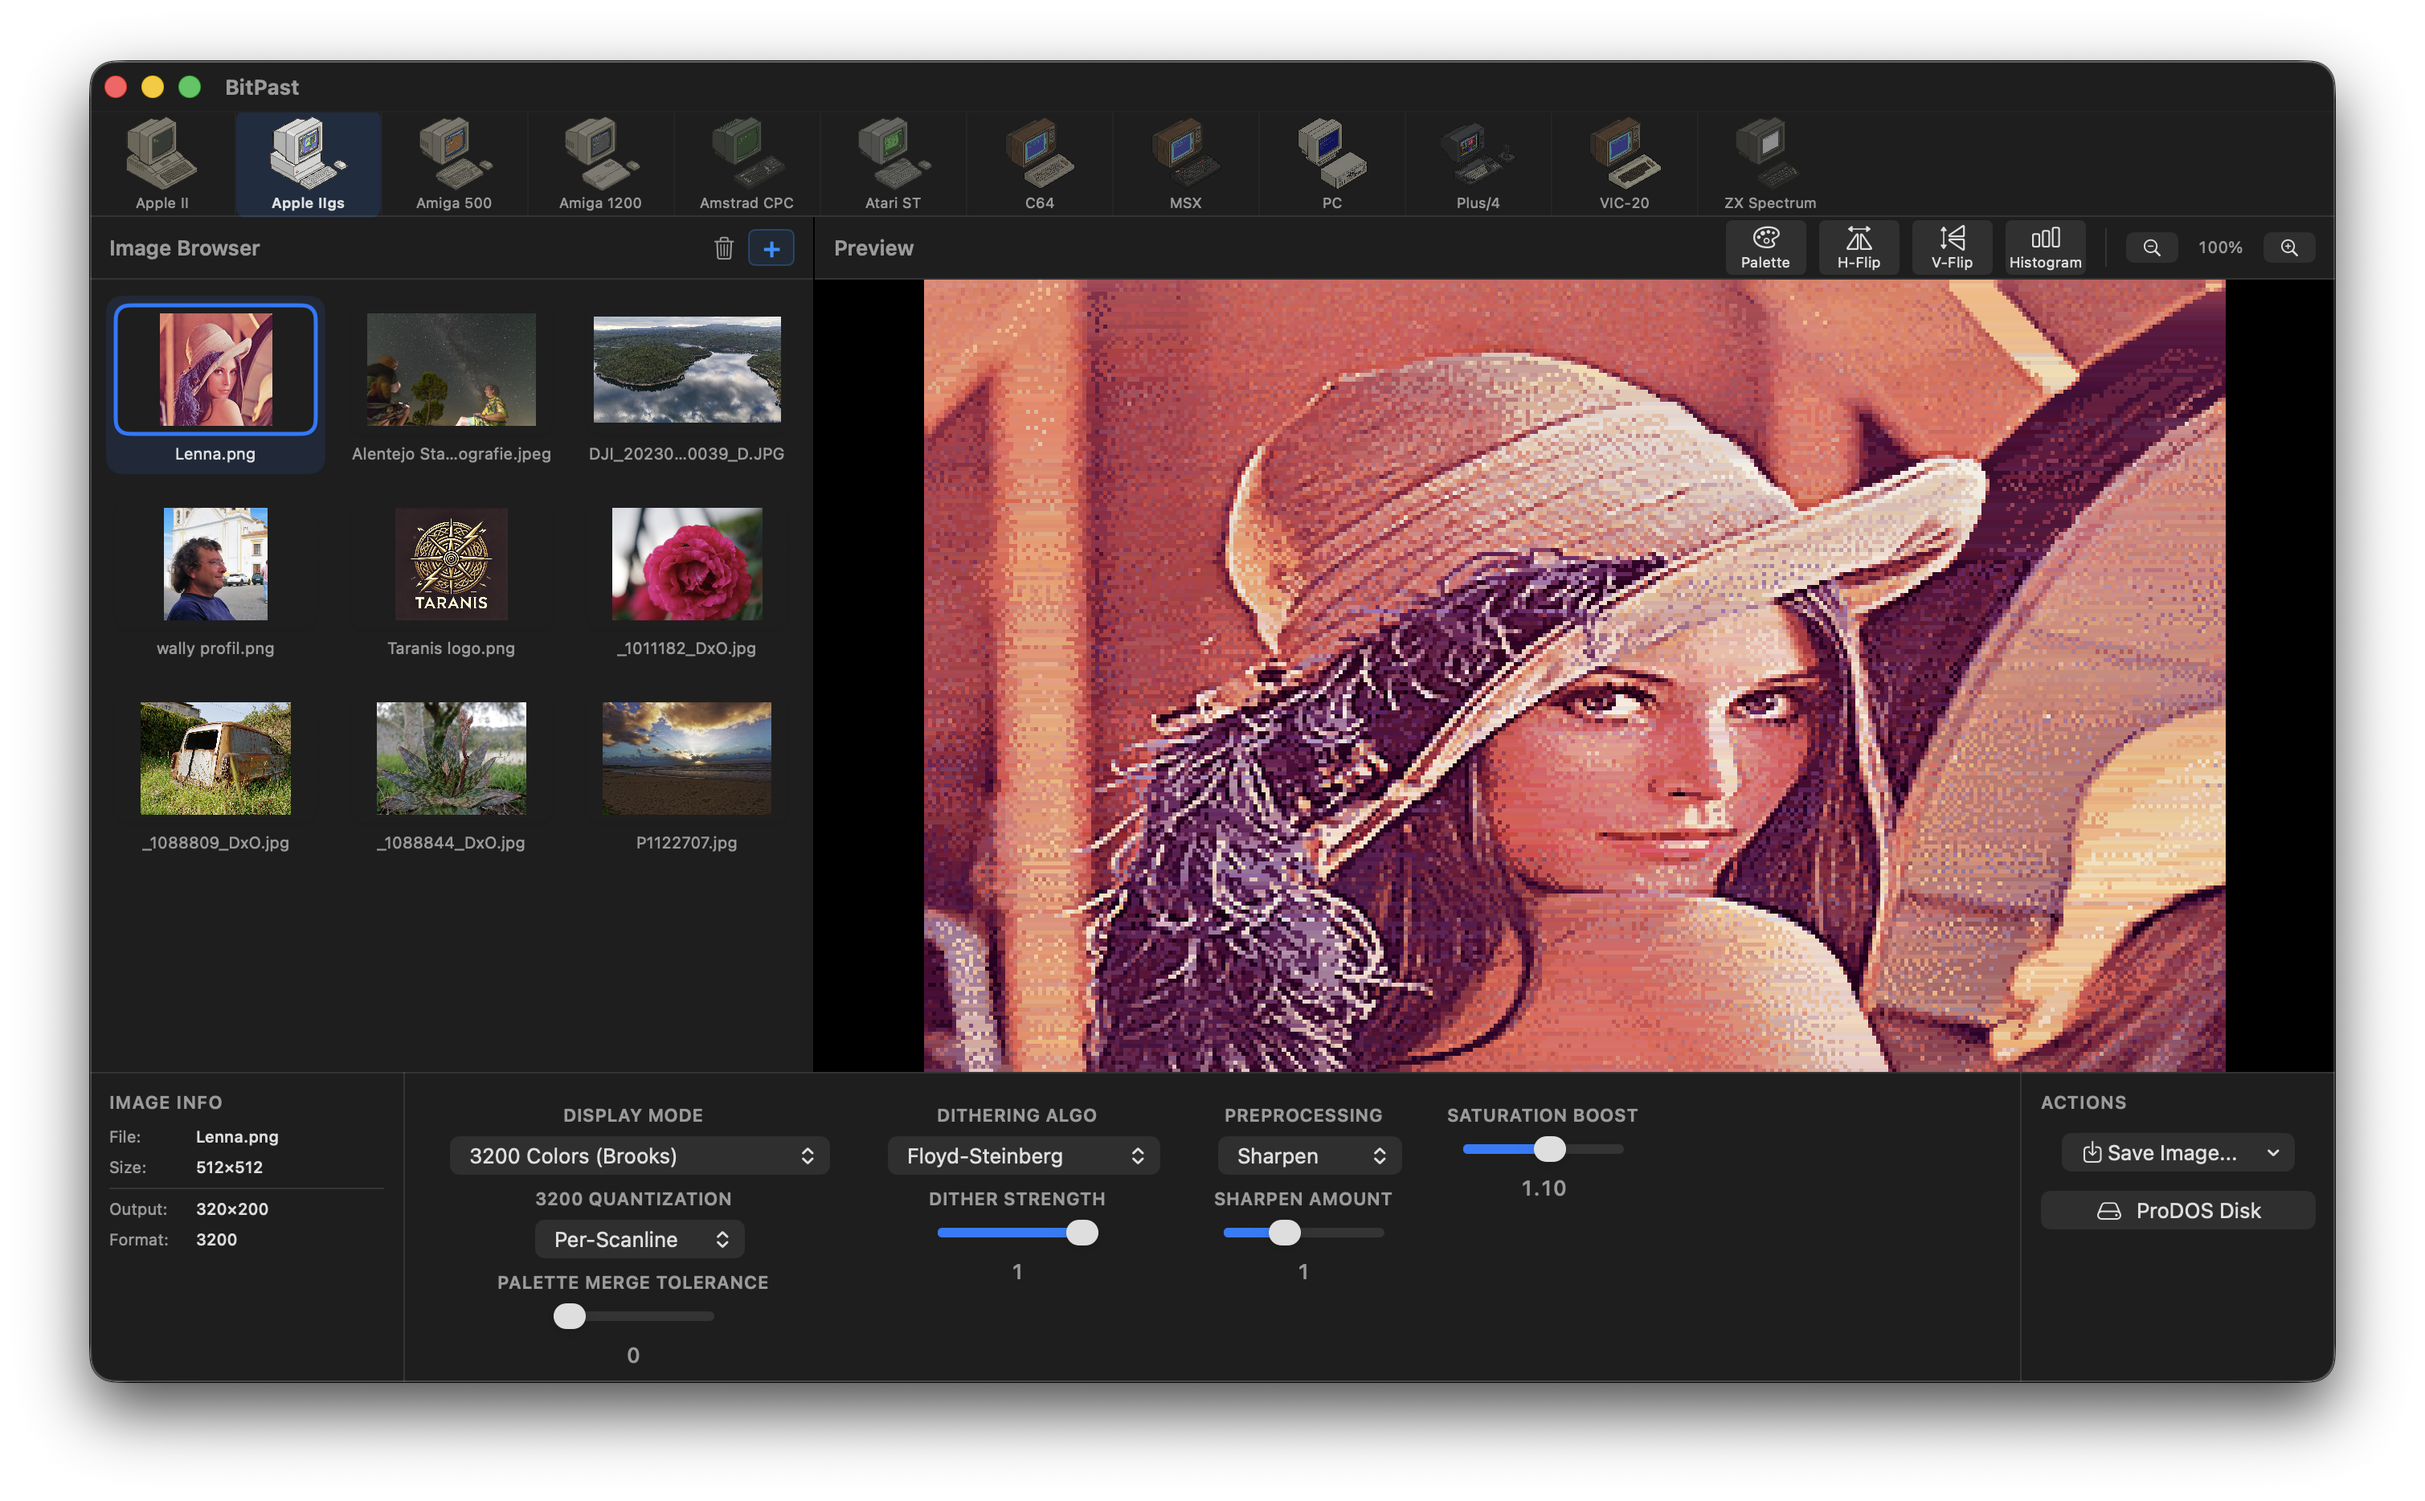
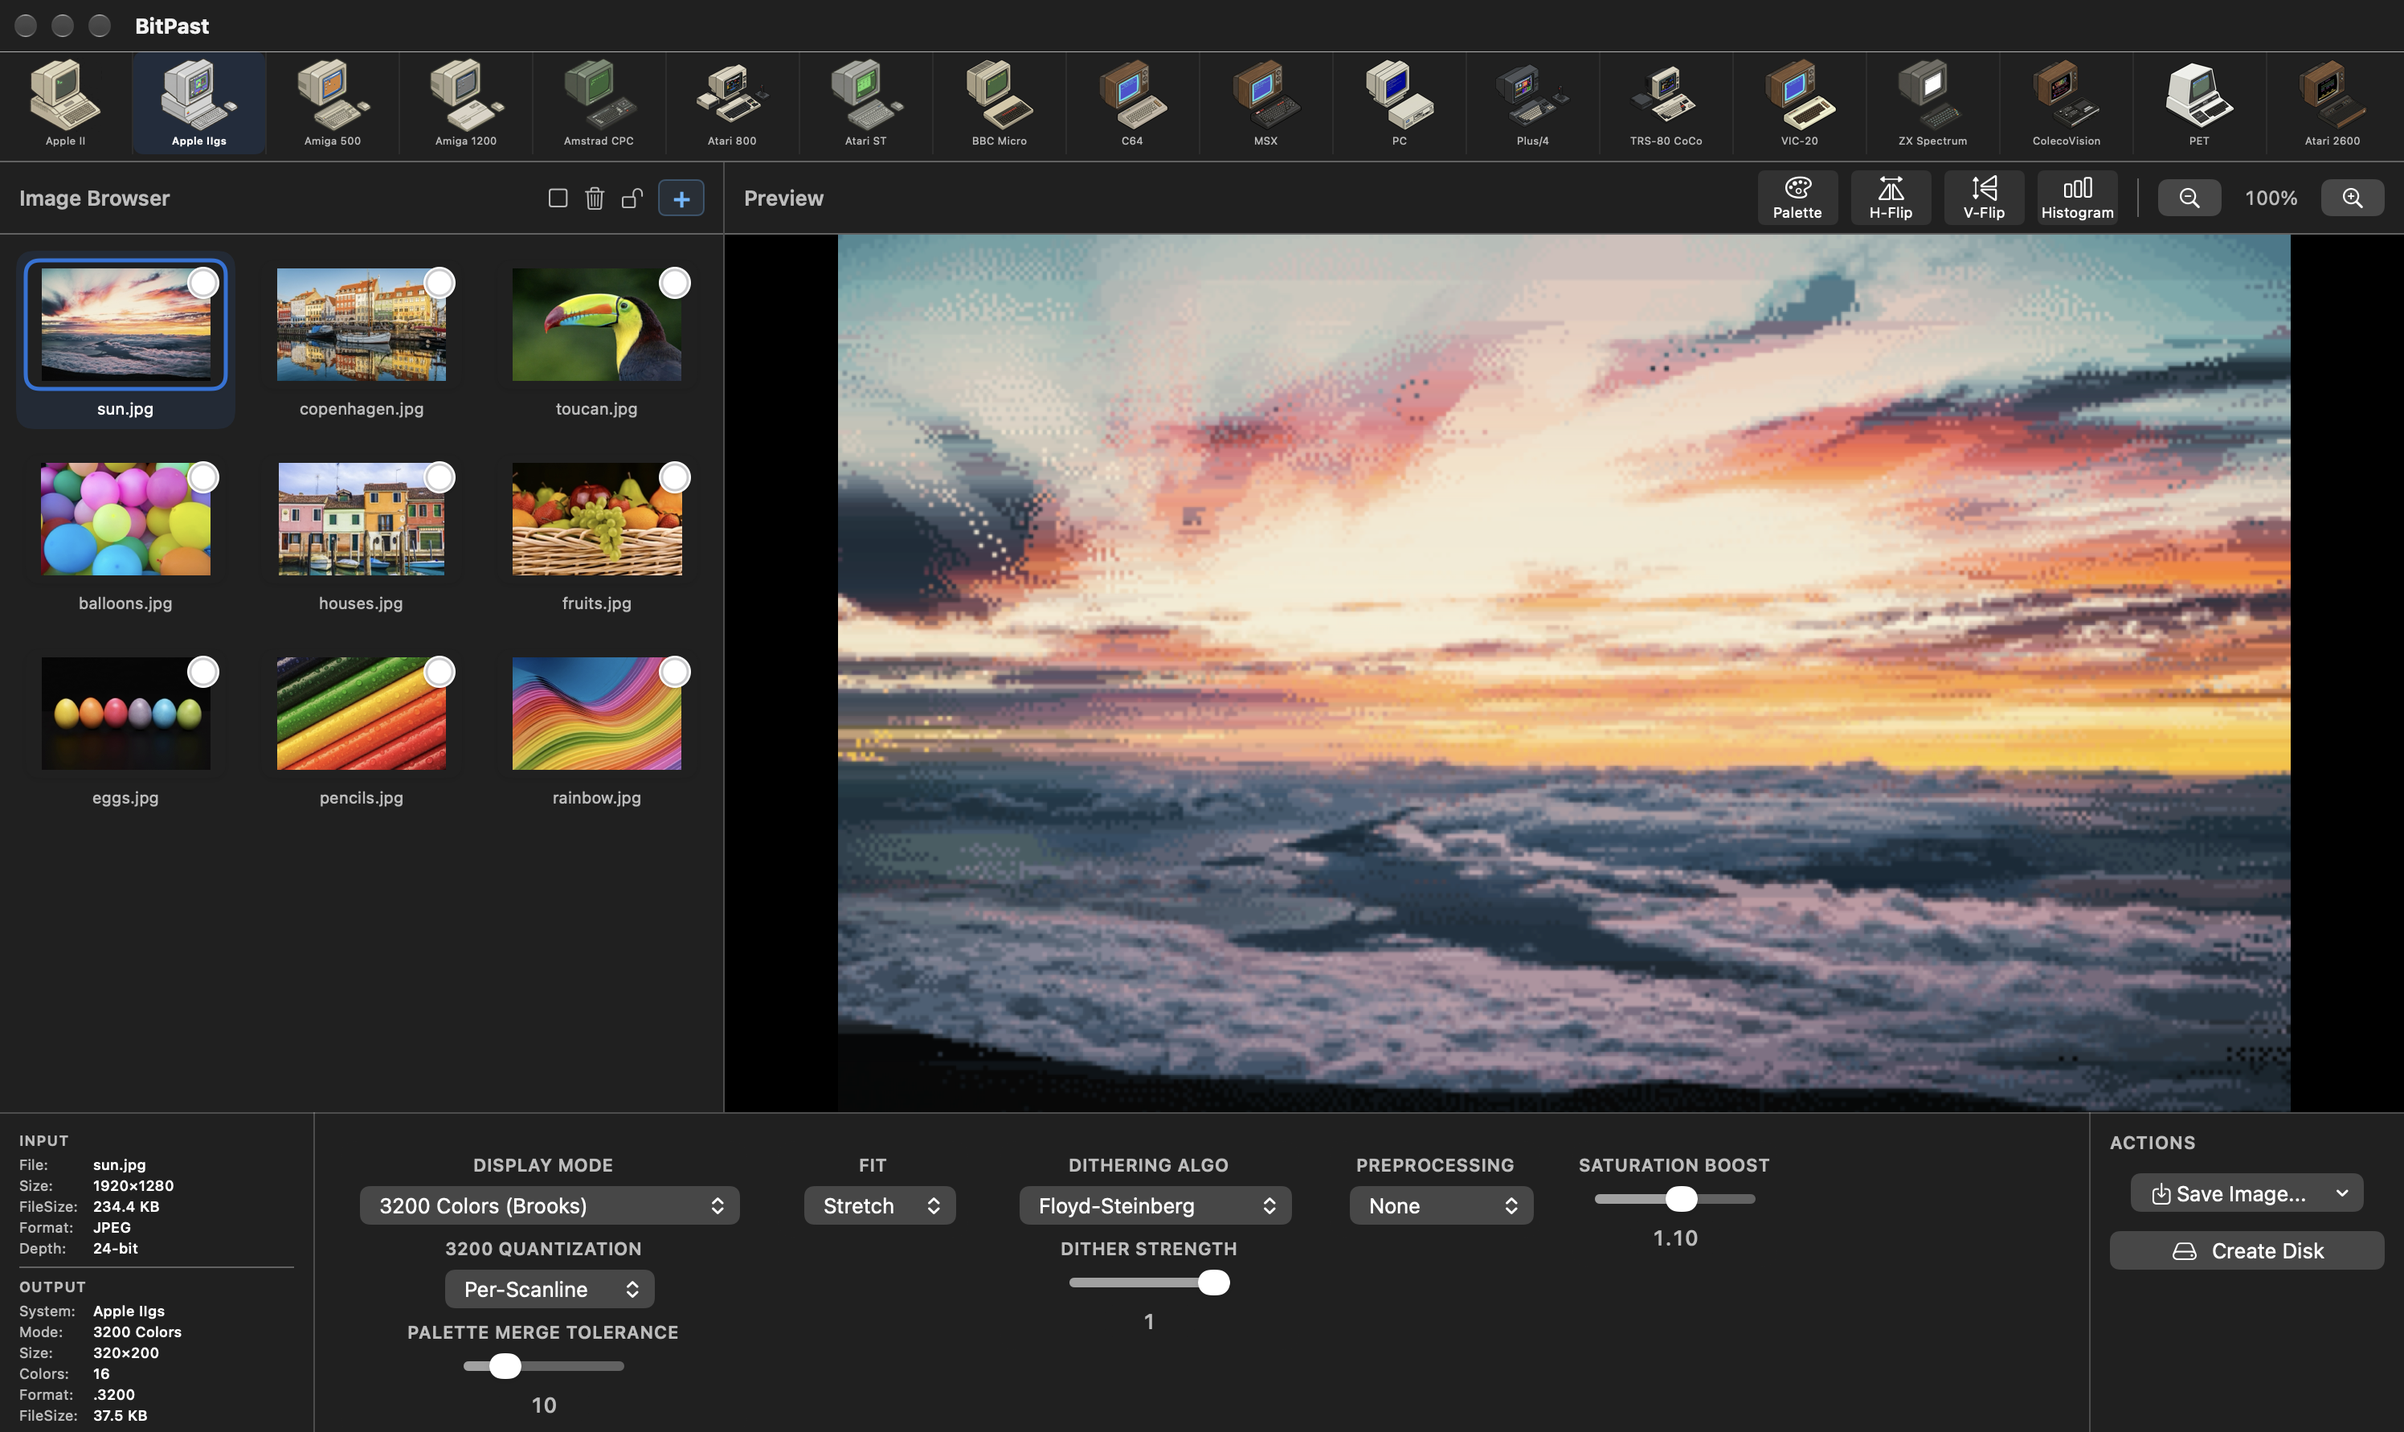
Update the README for 4.7
All 18 systems with sections for the Commodore PET, Atari 2600 and
ColecoVision, Open Images and Open Recent, cartridges and the PET disk,
links to the User's Guide, the Mac App Store and the homepage, macOS 15.7
as the requirement, and new 4.7 screenshots plus the 18-machine grid.

diff --git a/README.md b/README.md
@@ -4,7 +4,13 @@
 ![Language](https://img.shields.io/badge/language-Swift%20%7C%20C-orange)
 ![License](https://img.shields.io/badge/license-MIT-blue)
 
-**BitPast** is a modern, native macOS application for converting images into authentic retro computer graphic formats including **Apple II**, **Apple IIgs**, **BBC Micro**, **Commodore 64**, **VIC-20**, **ZX Spectrum**, **Amstrad CPC**, **Plus/4**, **Atari 800**, **Atari ST**, **Amiga 500**, **Amiga 1200**, **IBM PC**, **MSX**, and **TRS-80 Color Computer**.
+**BitPast** is a modern, native macOS application for converting images into authentic graphics for 18 classic computers and game consoles: **Apple II**, **Apple IIgs**, **Amiga 500**, **Amiga 1200**, **Amstrad CPC**, **Atari 800**, **Atari ST**, **Atari 2600**, **BBC Micro**, **ColecoVision**, **Commodore 64**, **Commodore PET**, **IBM PC**, **MSX**, **Plus/4**, **TRS-80 Color Computer**, **VIC-20** and **ZX Spectrum**.
+
+Every conversion follows the rules of the real hardware, and the result is saved as the machine's own file, on a disk image, or as a cartridge for the consoles.
+
+📖 **[BitPast User's Guide (PDF, 91 pages)](Manual/BitPast-Manual.pdf)** covers every system, mode and setting. · 🍎 [Mac App Store](https://apps.apple.com/us/app/bitpast/id6756894753) · 🌐 [Homepage](https://portwally.github.io/Bitpast/)
+
+![One photo, 18 machines](rsc/machines.jpg)
 
 ![Apple IIgs 3200 Color Mode](rsc/screenshot-iigs-dark.png)
 
@@ -20,10 +26,14 @@
 ## ✨ Features
 
 ### 🖥 Modern macOS Interface
-- **Drag & Drop:** Drag multiple images directly from Finder or the web.
+- **Drag & Drop:** Drag multiple images directly from Finder or the web, or use **File > Open Images…** (⌘O).
+- **Open Recent:** The last 10 pictures in **File > Open Recent**.
 - **Batch Processing:** Load dozens of images into a grid browser and process them one by one.
 - **Live Preview:** See changes instantly as you adjust sliders for dithering, contrast, and color matching.
 - **Zoom & Pan:** Inspect every single pixel with a high-performance zoomable preview.
+- **Lock Settings:** Give single pictures their own settings for batch export.
+- **System Bar:** One click (or ⇧⌘ shortcut) per system; the bar fits any window size and scrolls when needed.
+- **Retro Themes:** GS/OS, Apple II green phosphor and Commodore 64 blue, plus light and dark.
 
 ### 🎨 Supported Systems
 
@@ -32,7 +42,7 @@ Powered by `b2d`, supporting the full range of classic graphics modes:
 - **DHGR** (Double Hi-Res): 140x192 (16 colors) or 560x192 (Monochrome).
 - **HGR** (Hi-Res): 280x192 (6 colors).
 - **LGR / DLGR**: Lo-Res and Double Lo-Res block graphics.
-- **Output:** `.BIN` files ready for hardware.
+- **Output:** `.A2FC` (DHGR), `.A2FM` (DHGR mono), `.BIN` (HGR), `.SLO` / `.DLO` (Lo-Res) files ready for hardware.
 
 #### 🌈 Apple IIgs (16-Bit)
 Powered by a **native Swift engine** featuring advanced color quantization:
@@ -60,6 +70,13 @@ Full VIC-II graphics support:
 - **PETSCII Mode:** 40×25 character-based graphics using PETSCII charset.
 - **16-color VICE/Pepto palette.**
 - **Output:** `.art` (Art Studio), `.kla` (Koala Painter), `.prg` (PETSCII executable).
+
+#### 🟩 Commodore PET
+Block graphics from the PETSCII quarter-block characters:
+- **40 Columns:** 80×50 blocks (40×25 characters), for the PET 2001, 3000 and 4000 series.
+- **80 Columns:** 160×50 blocks (80×25 characters), for the 8032.
+- **Threshold, Dither and Invert** decide which blocks are lit; **Monitor** shows green or white.
+- **Output:** `.prg` (BASIC `SYS1037` + 6502 routine that draws the picture, 1–2 KB).
 
 #### 📺 VIC-20
 Character-based graphics with full color support:
@@ -107,6 +124,12 @@ ANTIC/GTIA graphics with 128-color palette:
 - **512-color hardware palette** (8 levels R × 8 levels G × 8 levels B).
 - **Output:** `.pi1`, `.pi2`, `.pi3` (DEGAS Elite format).
 
+#### 🕹 Atari 2600
+Playfield pictures drawn line by line by the TIA chip:
+- **40×192 blocks**, with 2 colors on every line from the 128-color NTSC palette.
+- The playfield is rewritten mid-line, so the left and right halves differ.
+- **Output:** `.bin` (4 KB NTSC cartridge for Stella or a flash cart).
+
 #### 🐚 Amiga 500 (OCS/ECS)
 Original Chip Set graphics:
 - **Standard Mode:** 320×256/320×512, 32 colors from 4096-color palette.
@@ -132,7 +155,12 @@ TMS9918 and V9938 video chip graphics:
 - **Screen 2 (MSX1):** 256×192, 2 colors per 8×1 line from 16-color palette.
 - **Screen 5 (MSX2):** 256×212, 16 colors from 512-color palette.
 - **Screen 8 (MSX2):** 256×212, 256 fixed colors (3-3-2 RGB).
-- **Output:** `.sc2`, `.sc5`, `.sc8` (BSAVE format).
+- **Output:** `.sc2`, `.sc5`, `.sc8` (BSAVE format; `.sc2` holds the full VRAM image for `BLOAD "x.sc2",S`).
+
+#### 🎮 ColecoVision
+The same TMS9928A video chip as the MSX1:
+- **Graphics II:** 256×192, 2 colors per 8×1 line from the 15-color palette.
+- **Output:** `.col` (16 KB cartridge that skips the title screen and shows the picture).
 
 #### 🖥 TRS-80 Color Computer
 MC6847 VDG and GIME chip graphics:
@@ -169,12 +197,14 @@ MC6847 VDG and GIME chip graphics:
 ### 💾 Export Formats
 - **Modern Previews:** Export as PNG, JPG, GIF, or TIFF for web use.
 - **Native Formats:** Each system exports its authentic file format.
-- **Virtual Disk Images:** Create disk images for ALL supported systems:
+- **Cartridges:** ColecoVision (`.col`) and Atari 2600 (`.bin`) pictures run straight in an emulator or on a flash cart.
+- **Virtual Disk Images:** Create disk images for every supported computer:
 
 | System | Formats | Sizes |
 |--------|---------|-------|
 | Apple II/IIgs | .PO, .2MG, .HDV | 140KB, 800KB, 32MB |
 | Commodore 64/VIC-20/Plus4 | .D64, .D71, .D81 | 170KB, 340KB, 800KB |
+| Commodore PET | .D64 | 170KB |
 | Amiga 500/1200 | .ADF | 880KB, 1.76MB |
 | Atari 800 | .ATR | 90KB, 130KB, 180KB, 360KB |
 | Atari ST | .ST | 360KB, 720KB, 1.44MB |
@@ -187,14 +217,14 @@ MC6847 VDG and GIME chip graphics:
 
 ## 🚀 How to Use
 
-1. **Drag Images** into the left "Image Browser" panel.
+1. **Drag Images** into the left "Image Browser" panel, or click **Open Images…**.
 2. Select an image to preview it.
-3. Choose your **System** from the horizontal bar at the top (Apple II, Apple IIgs, BBC Micro, C64, VIC-20, ZX Spectrum, Amstrad CPC, Plus/4, Atari 800, Atari ST, Amiga 500, Amiga 1200, PC, MSX, TRS-80 CoCo).
+3. Choose your **System** from the horizontal bar at the top, or with ⇧⌘1–0, P, L, T, V, Z, O, E or K.
 4. Select the **Mode** and tweak **Dither**, **Contrast**, and other settings.
-5. Click **Export** in the bottom right corner.
+5. Click **Save Image…** in the bottom right corner.
    - Choose **PNG/JPG** for a visual preview.
    - Choose **Native Format** to save the raw file for the target system.
-   - Choose **Create Disk** to package converted files onto a virtual disk image for any system.
+   - Choose **Create Disk** to package converted files onto a virtual disk image (computers only; the consoles use cartridges).
 
 ## 🛠 Technical Details
 
@@ -202,19 +232,25 @@ BitPast is built with **Swift** and **SwiftUI** for macOS.
 
 - **Frontend:** SwiftUI (Grid Views, HSplitView, Combine for debounced live previews).
 - **Backend (Apple II):** `b2d` (modified build with struct packing fixes for modern macOS ARM64/x86_64).
-- **Backend (All Others):** Native Swift implementations with authentic format output.
+- **Backend (All Others):** Native Swift implementations with authentic format output. The ColecoVision, PET and Atari 2600 files include small Z80 and 6502 programs that show the picture.
+- **Tests:** Golden fingerprints for every converter and setting, plus Z80/VDP, 6502 and cycle-counting 6502/TIA models that run the generated programs.
 - **Disk Operations:** Native Swift implementation for ProDOS volume creation and file management.
 
 ## 📦 Installation
 
+BitPast needs **macOS 15.7** or later.
+
+### From the Mac App Store
+[**Download BitPast on the Mac App Store**](https://apps.apple.com/us/app/bitpast/id6756894753)
+
 ### From Source
 1. Clone the repository.
 2. Open `BitPast.xcodeproj` in Xcode.
-3. Build and Run (Requires macOS 12.0+).
+3. Build and Run.
 
 ### From Binary Release
 
-Since this app is not distributed through the official Apple App Store and may not have been notarized by a paid Apple Developer Account, macOS might display a security warning upon the first launch.
+A copy downloaded from the GitHub Releases page may not be notarized, so macOS might display a security warning upon the first launch.
 
 You may see a message stating: "The app cannot be opened because it is from an unverified developer."
 
@@ -236,6 +272,7 @@ If this does not work then:
 ## 👏 Credits
 
 - **Bill Buckels**: For creating the original **b2d** (Bmp2DHR) command-line tool. [Visit AppleOldies.ca](https://www.appleoldies.ca/bmp2dhr/).
+- **Photographs** in the User's Guide and screenshots are from [Pixabay](https://pixabay.com) (Pixabay Content License); the photographers are listed in the guide.
 
 
 ## 📄 License
